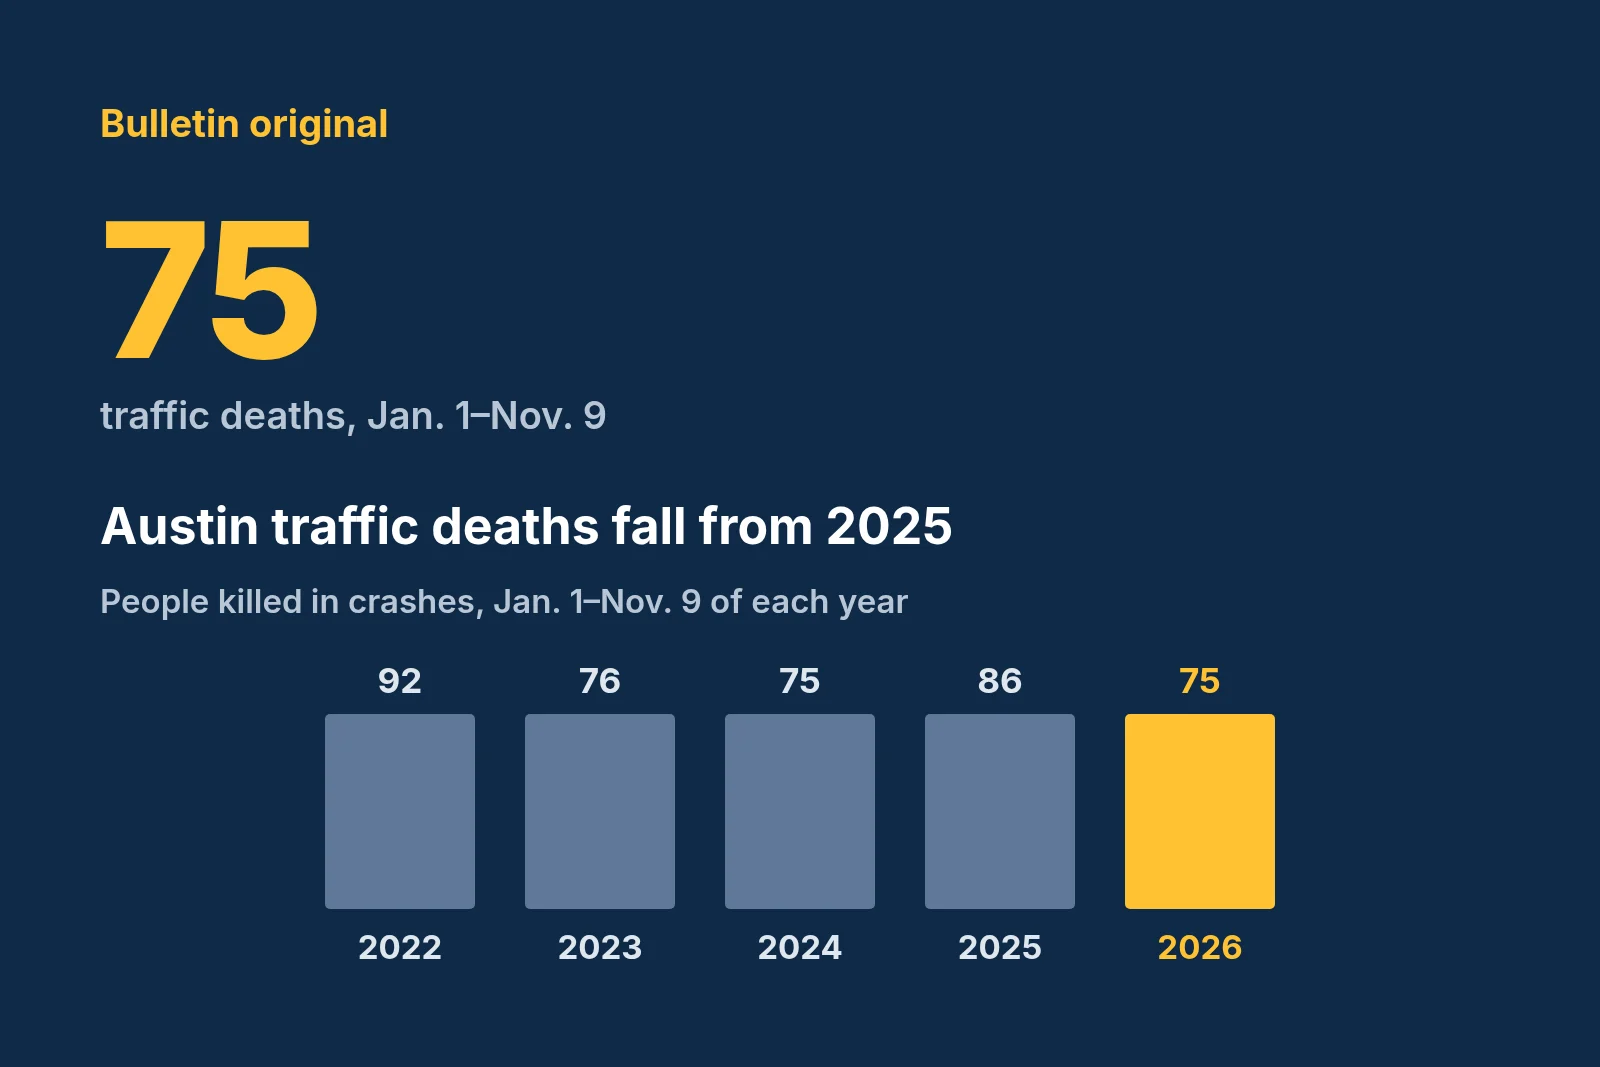
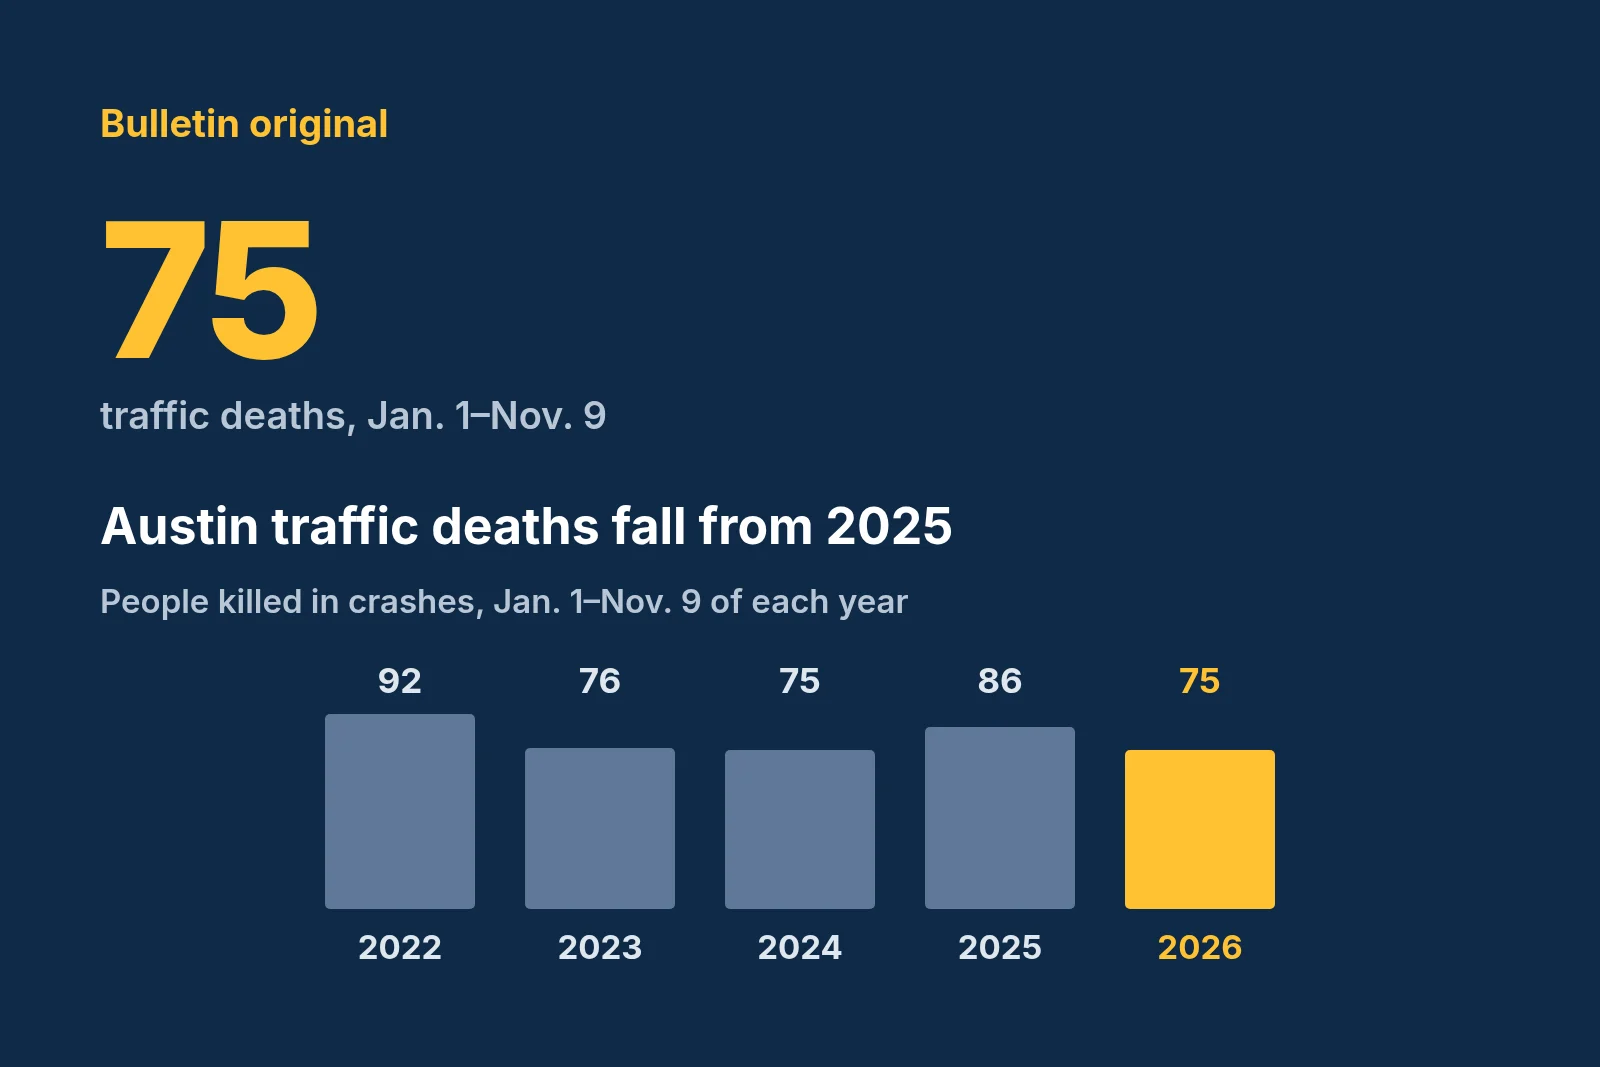
Add the Wednesday, November 25, 2026 edition; lead-chart bars now scale to their values (#119)

Changed region(s): [[0.3125, 0.6495, 0.8125, 0.7113]]

diff --git a/src/bulletins/2026-11-25.md b/src/bulletins/2026-11-25.md
@@ -1,0 +1,28 @@
+---
+layout: bulletin.njk
+title: "The Austin Bulletin — Wednesday, November 25, 2026"
+archive_title: "Thanksgiving weekend crashes, Vela resigns, and holiday closures"
+description: "Austin had 126 crashes over Thanksgiving weekend 2025, down from 175 in 2021."
+date: 2026-11-25
+permalink: "/2026/11/25/"
+edition_cards: true
+today: "Thanksgiving weekend crashes are down from 2021. Chito Vela announces his Council resignation, Prop G pushes any Dog's Head vote to 2028, and City offices close Thursday and Friday under sunny skies."
+images:
+  lead:
+    key: thanksgiving-weekend-crashes
+    src: /images/2026-11-25/thanksgiving-crashes-desktop-1600.webp
+    smallSrc: /images/2026-11-25/thanksgiving-crashes-phone-780.webp
+    width: 1600
+    height: 1067
+    smallWidth: 780
+    smallHeight: 520
+    alt: "Bar chart: Crashes in Austin from the Wednesday through the Sunday of Thanksgiving week: 175 in 2021, 156 in 2022, 115 in 2023, 130 in 2024 and 126 in 2025."
+    caption: "Chart: Crashes in Austin from the Wednesday through the Sunday of Thanksgiving week: 175 in 2021, 156 in 2022, 115 in 2023, 130 in 2024 and 126 in 2025."
+    credit: "The Austin Bulletin"
+    source: https://data.austintexas.gov/d/y2wy-tgr5
+    license: "Original chart from City of Austin crash report data"
+    licenseUrl: https://data.austintexas.gov/d/y2wy-tgr5
+    kind: chart
+---
+
+Thanksgiving weekend crashes are down from 2021. Chito Vela announces his Council resignation, Prop G pushes any Dog's Head vote to 2028, and City offices close Thursday and Friday under sunny skies.
